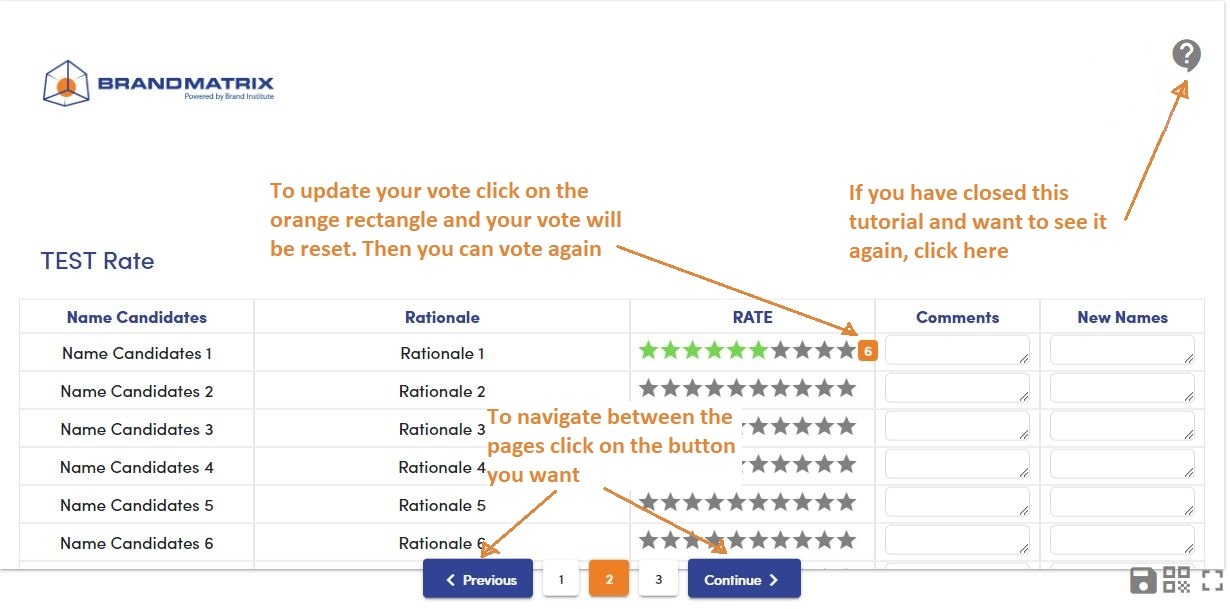
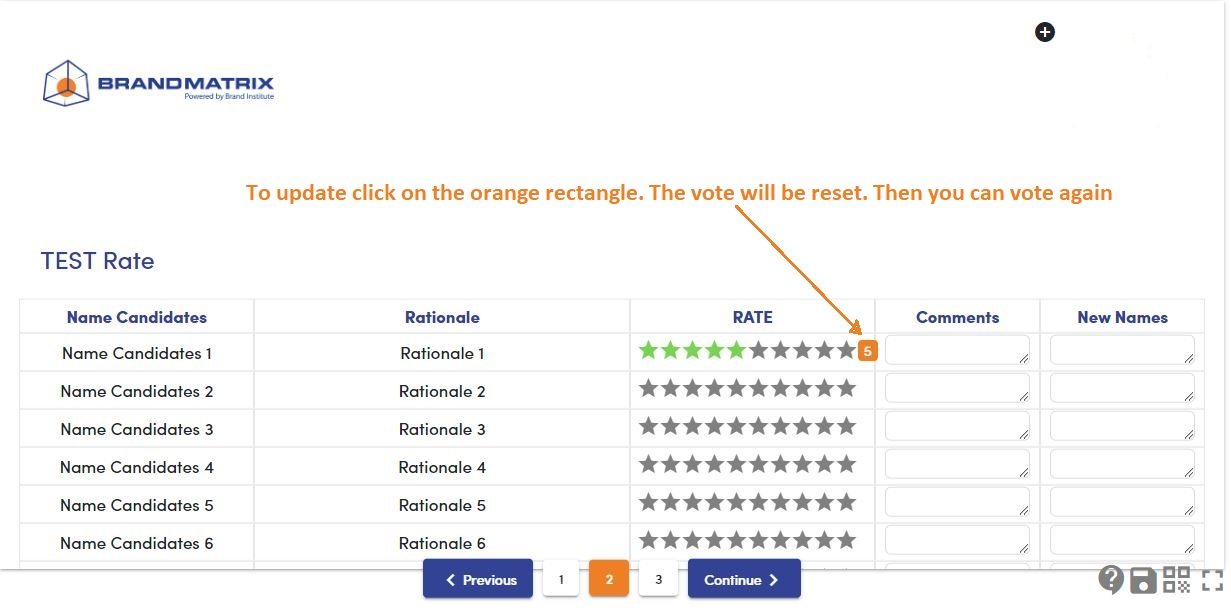
new tutorial mobil and descktop

diff --git a/src/app/bmx/bmx-creator/survey-matrix/survey-matrix.component.html b/src/app/bmx/bmx-creator/survey-matrix/survey-matrix.component.html
@@ -1,5 +1,11 @@
 <div class="page-design noselect disable-dbl-tap-zoom">
     <div class="desktop">
+        <button *ngIf="true" (click)="seeTutorial()" class="see-tutorial" mat-icon-button matTooltip="See tutorial" matTooltipPosition="above"
+                 
+            style="position: absolute;color: grey;z-index: 9999999999;outline: none;">
+            <mat-icon class="full-icon" style="font-size: 36px;">contact_support
+            </mat-icon>
+        </button>
         <button (click)="displayQrCode()" mat-icon-button matTooltip="design tools" matTooltipPosition="above"
             *ngIf="true"
             style="position: absolute;bottom: 10px;color: grey;z-index: 9999999999;right: 33px;outline: none;">
@@ -52,12 +58,13 @@
 
                 <!-- BMX PARAGRAPH EDITOR 📑📑📑📑📑📑📑📑📑📑📑📑📑📑📑📑📑📑📑📑📑📑📑📑📑📑📑📑📑📑 -->
                 <div *ngIf="bmxItem.componentType === 'text-editor'" class="paragraph">
-                    <button *ngIf="!showModalVideo" (click)="seeTutorial()" class="see-tutorial" mat-icon-button matTooltip="See tutorial" matTooltipPosition="above"
+                    <button *ngIf="!showModalVideo" (click)="seeTutorial()" class="see-tutorial-mobil" mat-icon-button matTooltip="See tutorial" matTooltipPosition="above"
                  
                         style="position: absolute;color: grey;z-index: 9999999999;outline: none;">
-                        <mat-icon class="full-icon" style="font-size: 40px;">contact_support
+                        <mat-icon class="full-icon" style="font-size: 36px;">contact_support
                         </mat-icon>
                     </button>
+                   
                     <!-- modal -->
                     <div *ngIf="showModalVideo" id="myModal" class="modal-video">
                         <label class="container-checkbox">Don't show again

diff --git a/src/app/bmx/bmx-creator/survey-matrix/survey-matrix.component.scss b/src/app/bmx/bmx-creator/survey-matrix/survey-matrix.component.scss
@@ -221,12 +221,15 @@
         justify-content: center;
         position: fixed;
         bottom: 10px;
-    }    
-}
-
-.see-tutorial{
-    right: 10%;
-    top: -8%
+    }
+    .see-tutorial-mobil{
+        display: none;
+    }
+    .see-tutorial{
+        bottom: 10px;
+        right: 98px;
+    }
+        
 }
 
 //mobile
@@ -262,10 +265,14 @@
     .menu-descriptions{
         display: none;
     }
-
        
     p{
         line-height: 25px;
+    }
+
+    .see-tutorial-mobil{
+        right: 10%;
+        top: -10%;
     }
 }
 
@@ -284,13 +291,7 @@
     .modal-video .close-modal{
         margin-left: 42.5%;
         width: 15%;
-    }
-
-    .see-tutorial{
-        right: 2%;
-        top: -12%
-    }
-    
+    }    
 }
 
 //---------end modal------------//

diff --git a/src/app/bmx/bmx-creator/survey-matrix/survey-matrix.component.ts b/src/app/bmx/bmx-creator/survey-matrix/survey-matrix.component.ts
@@ -62,12 +62,7 @@ export class SurveyMatrixComponent extends SurveyCreationDesignComponent impleme
 
   PATH1: any[] = [
     '/assets/img/bmx/tutorial/imagen1.JPG',
-    '/assets/img/bmx/tutorial/imagen2.JPG',
-    '/assets/img/bmx/tutorial/imagen3-1.JPG',
-    '/assets/img/bmx/tutorial/imagen6.JPG',
-    '/assets/img/bmx/tutorial/imagen3.JPG',
-    '/assets/img/bmx/tutorial/imagen5.JPG',
-    '/assets/img/bmx/tutorial/imagen7.JPG',
+    '/assets/img/bmx/tutorial/imagen2.JPG',    
   ]
 
   PATH2: any[] = [
